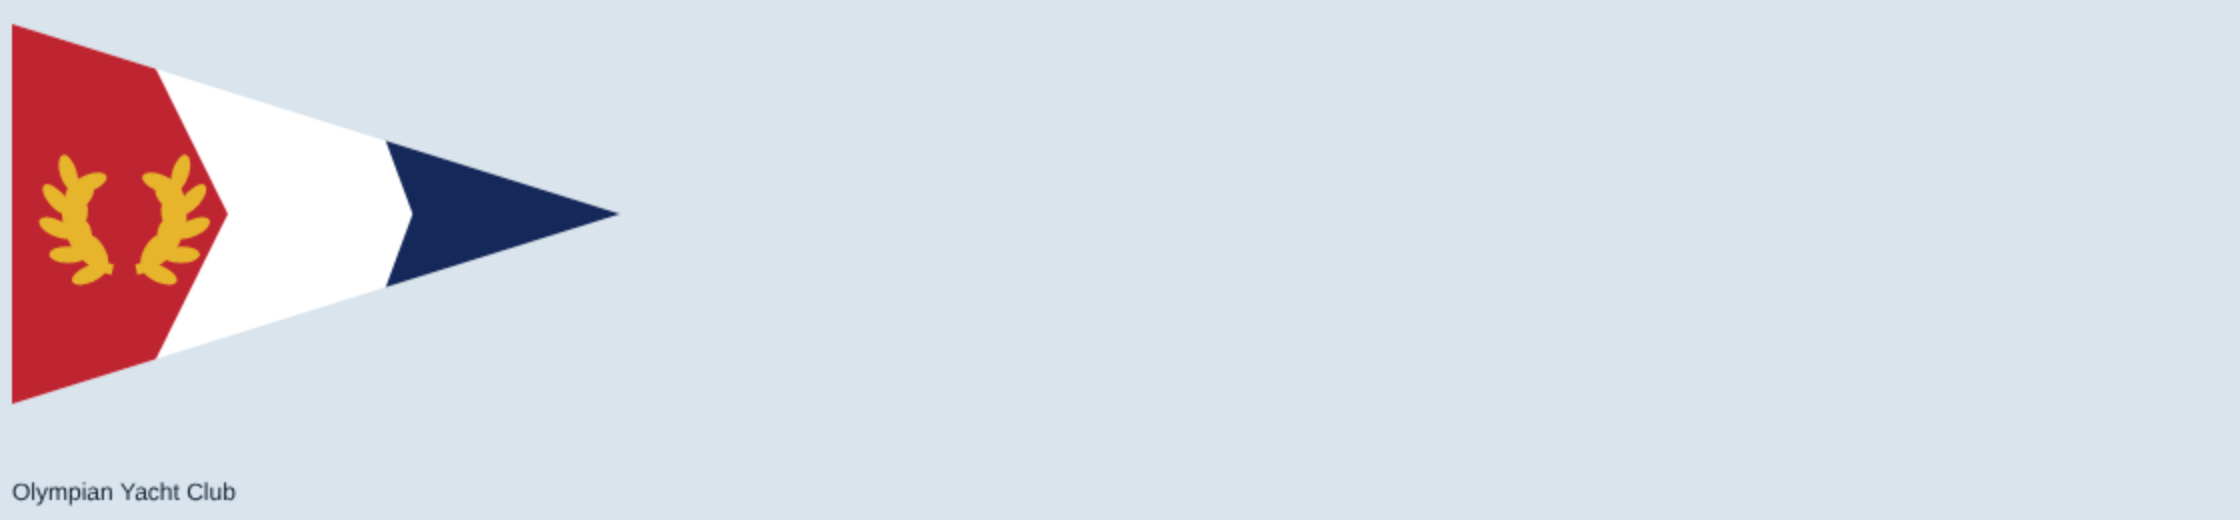
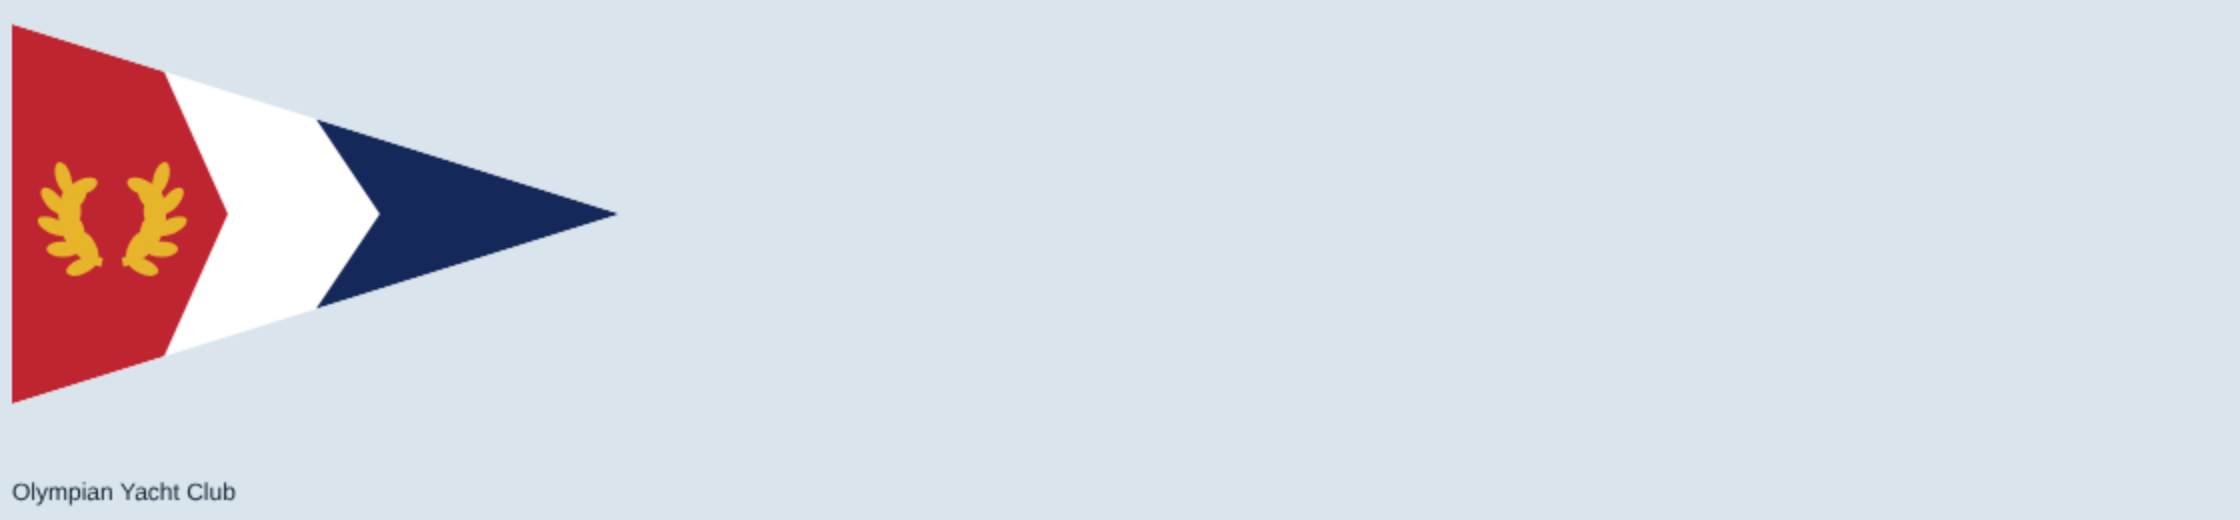
Burgees: Olympian's white section a third shorter all along; the laurel smaller with clear margins
Claude-Session: https://claude.ai/code/session_012Uu5QjYRsEpBxuz7xgHWhs

diff --git a/src/render/burgeeArt.ts b/src/render/burgeeArt.ts
@@ -53,13 +53,13 @@ export const PARODY_BURGEES: Burgee[] = [
       for (const s of [-1, 1]) poly(g, S, [x + s * u * 0.14, y + u * 0.2 - u * 0.03], [x + s * u * 0.27, y + u * 0.05], [x + s * u * 0.14, y + u * 0.08]); } },
   { id: 'cyc', shape: 'pennant', ratio: 1.6, // classic, the amateur's club (the owner's layout): a red hoist panel coming to a single point, a white middle, a dark-blue tip with a chevron notch; one gold laurel wreath (the Greek games) on the red
     draw: (g, W, H) => { fill(g, W, H, WHITE);
-      poly(g, RED, [0, 0], [W * 0.2, 0], [W * 0.355, H * 0.5], [W * 0.2, H], [0, H]);
-      poly(g, NAVY, [W * 0.544, 0], [W, 0], [W, H], [W * 0.544, H], [W * 0.659, H * 0.5]); // (the white between them is 20% shorter than the first draft's)
-      const x = W * 0.185, y = H * 0.5, r = H * 0.15, d = Math.PI / 180;
+      poly(g, RED, [0, 0], [W * 0.25, H * 0.125], [W * 0.355, H * 0.5], [W * 0.25, H * 0.875], [0, H]);
+      poly(g, NAVY, [W * 0.5, H * 0.25], [W, H * 0.5], [W * 0.5, H * 0.75], [W * 0.605, H * 0.5]); // (the white between them is a third shorter than the first draft's, along the edges and the middle)
+      const x = W * 0.165, y = H * 0.5, r = H * 0.13, d = Math.PI / 180;
       for (const s of [-1, 1]) { // two branches from the bottom, each a stem with leaves pairing off it, growing up
-        const a0 = (s > 0 ? 78 : 102) * d, a1 = (s > 0 ? -28 : 208) * d; arc(g, GOLD, H * 0.028, x, y, r, Math.min(a0, a1), Math.max(a0, a1));
+        const a0 = (s > 0 ? 78 : 102) * d, a1 = (s > 0 ? -28 : 208) * d; arc(g, GOLD, H * 0.024, x, y, r, Math.min(a0, a1), Math.max(a0, a1));
         for (let i = 0; i < 5; i++) { const a = (s > 0 ? 70 - i * 24 : 110 + i * 24) * d, grow = a + s * -Math.PI / 2, px = x + Math.cos(a) * r, py = y + Math.sin(a) * r;
-          for (const k of [-1, 1]) { const dir = grow + k * 0.75; oval(g, GOLD, px + Math.cos(dir) * H * 0.045, py + Math.sin(dir) * H * 0.045, H * 0.049, H * 0.022, dir); } } } } },
+          for (const k of [-1, 1]) { const dir = grow + k * 0.75; oval(g, GOLD, px + Math.cos(dir) * H * 0.04, py + Math.sin(dir) * H * 0.04, H * 0.043, H * 0.02, dir); } } } } },
   { id: 'tyc', shape: 'pennant', ratio: 1.8, // mid-century: deep blue over gray water, one white fin
     draw: (g, W, H) => { rect(g, '#16386b', 0, 0, W, H * 0.64); rect(g, '#8d99a6', 0, H * 0.64, W, H * 0.36); poly(g, WHITE, [W * 0.09, H * 0.64], [W * 0.17, H * 0.22], [W * 0.27, H * 0.64]); } },
   { id: 'pyc', shape: 'pennant', ratio: 1.5, // modern-formal: navy, gold, a red band; one horseshoe, symmetrical
